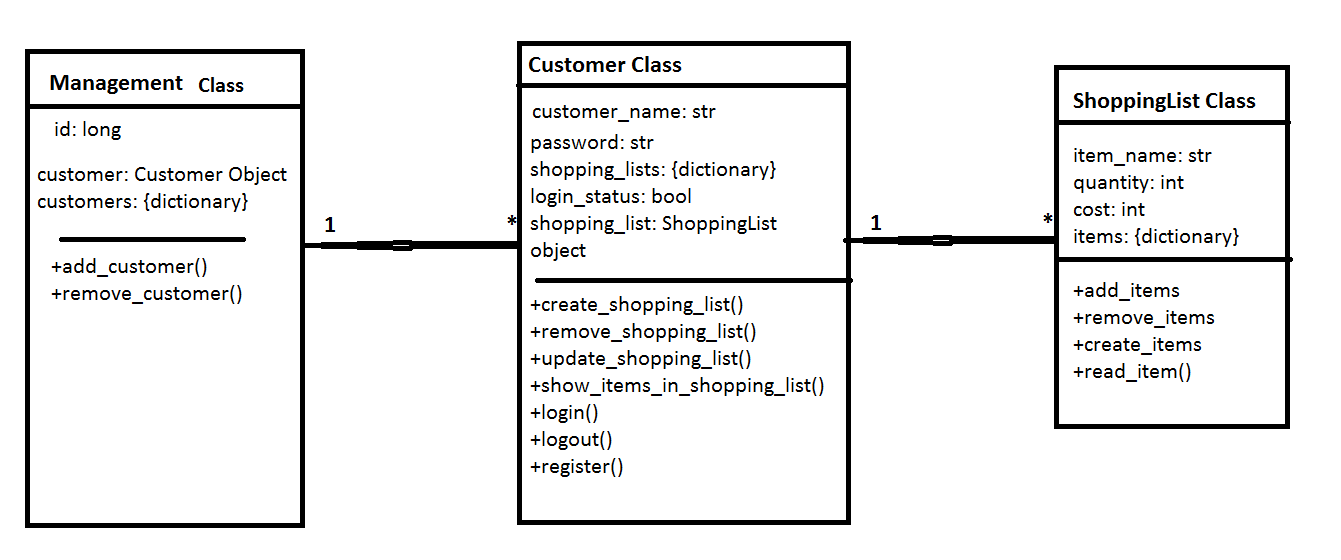
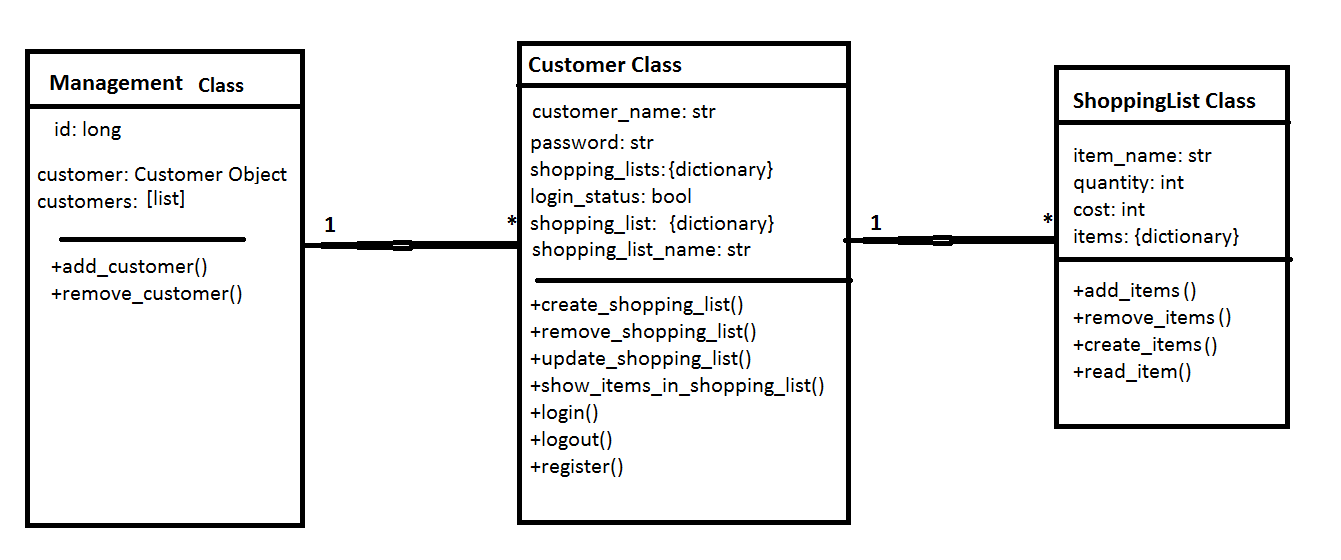
udapte uml, change login class to customer class

diff --git a/app/test_customer.py b/app/test_customer.py
@@ -30,7 +30,7 @@ class LoginTest(unittest.TestCase):
         """
         self.assertEqual(self.isaac_ssekamattte.password,"123456i","__init__ method inaccurate")
 
-    def test_server_sent_email_password_pairs(self):
+    def test_customer_email_password_pairs(self):
         """
         test constant email kept in tupple mimicing server sent login email
         """
@@ -42,7 +42,13 @@ class LoginTest(unittest.TestCase):
         """
         Test method for login on success
         """
-        self.assertTrue(self.steve.login(),msg="Check Email Method Inaccurate")
+        self.steve.login()
+        self.assertTrue(self.steve.login_status,msg="Check Email Method Inaccurate")
+    
+    def test_log_out(self):
+        """ Test Customer Log Out"""
+        self.steve.logout()
+        self.assertFalse(self.steve.login_status,msg="Log out Method Incacurate")
 
     def test_password_validity(self):
         """
@@ -59,3 +65,10 @@ class LoginTest(unittest.TestCase):
         """
         with self.assertRaises(InValidEmailExcpetion):
            self.invalid_email.login()
+
+    def test_create_shopping_list(self):
+        """Check validity of create shopping list method"""
+        shopping_list_1 = ShoppingList()
+        self.steve.create_shopping_list(shopping_list_1)
+        self.assertEqual(self.steve.shopping_list,shopping_list_1,msg="Create Shopping List Method Incorrect")
+

diff --git a/app/test_management.py b/app/test_management.py
@@ -15,7 +15,7 @@ class ManagementTest(unittest.TestCase):
     def test_start_number_of_customers(self):
         """Test Starting Number of Customers"""
 
-        self.assertEqual(self.management.customers,{},msg="Starting Number of Customers Wrong")
+        self.assertFalse(self.management.customers,msg="Starting Number of Customers Wrong")
     
     def test_add_customer(self):
         """test add_customer_method"""
@@ -30,4 +30,4 @@ class ManagementTest(unittest.TestCase):
         customer=Customer("email","password")
         self.management.add_customer(customer)
         self.management.remove_customer(customer)
-        self.assertEqual(self.management.customers,{},msg"remove_customer Method Invalid")
+        self.assertEqual(self.management.customers,[],msg"remove_customer Method Invalid")
